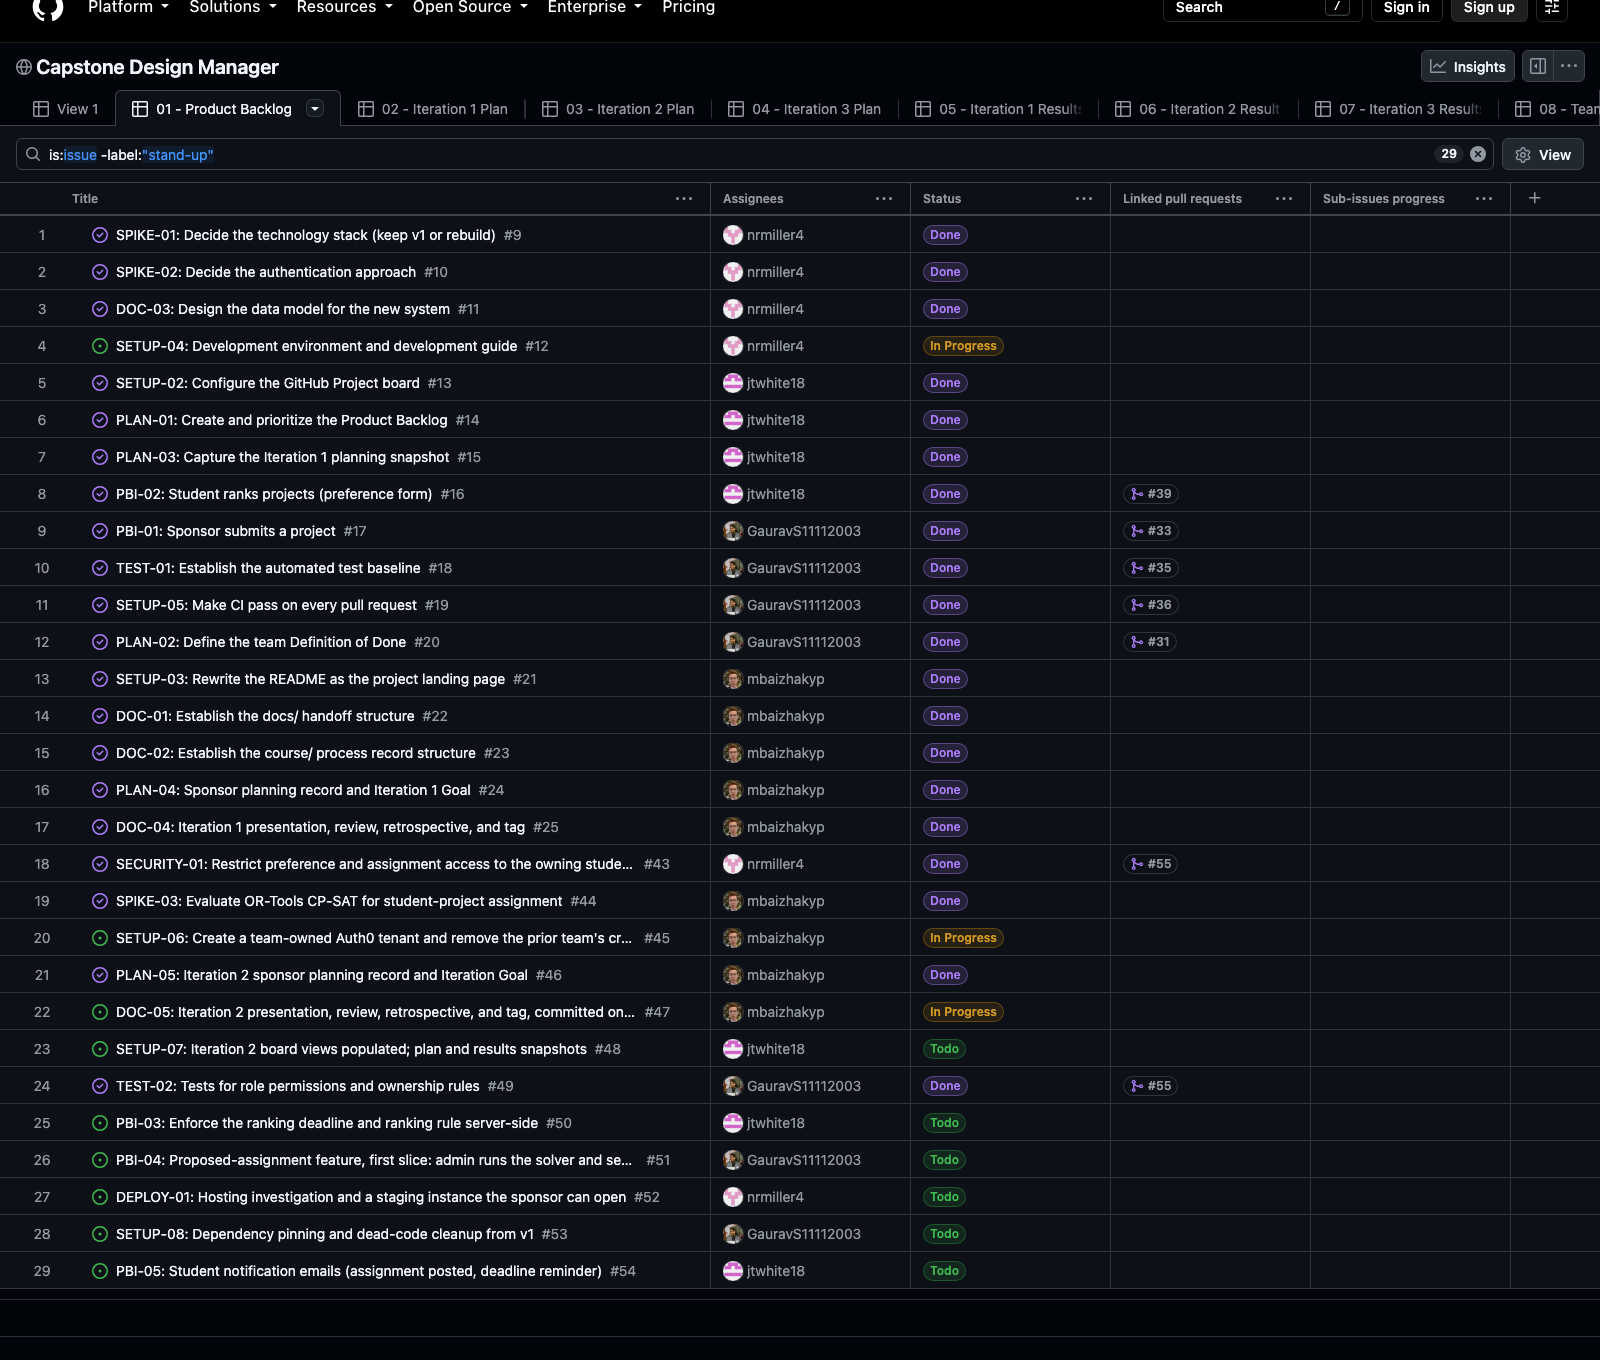
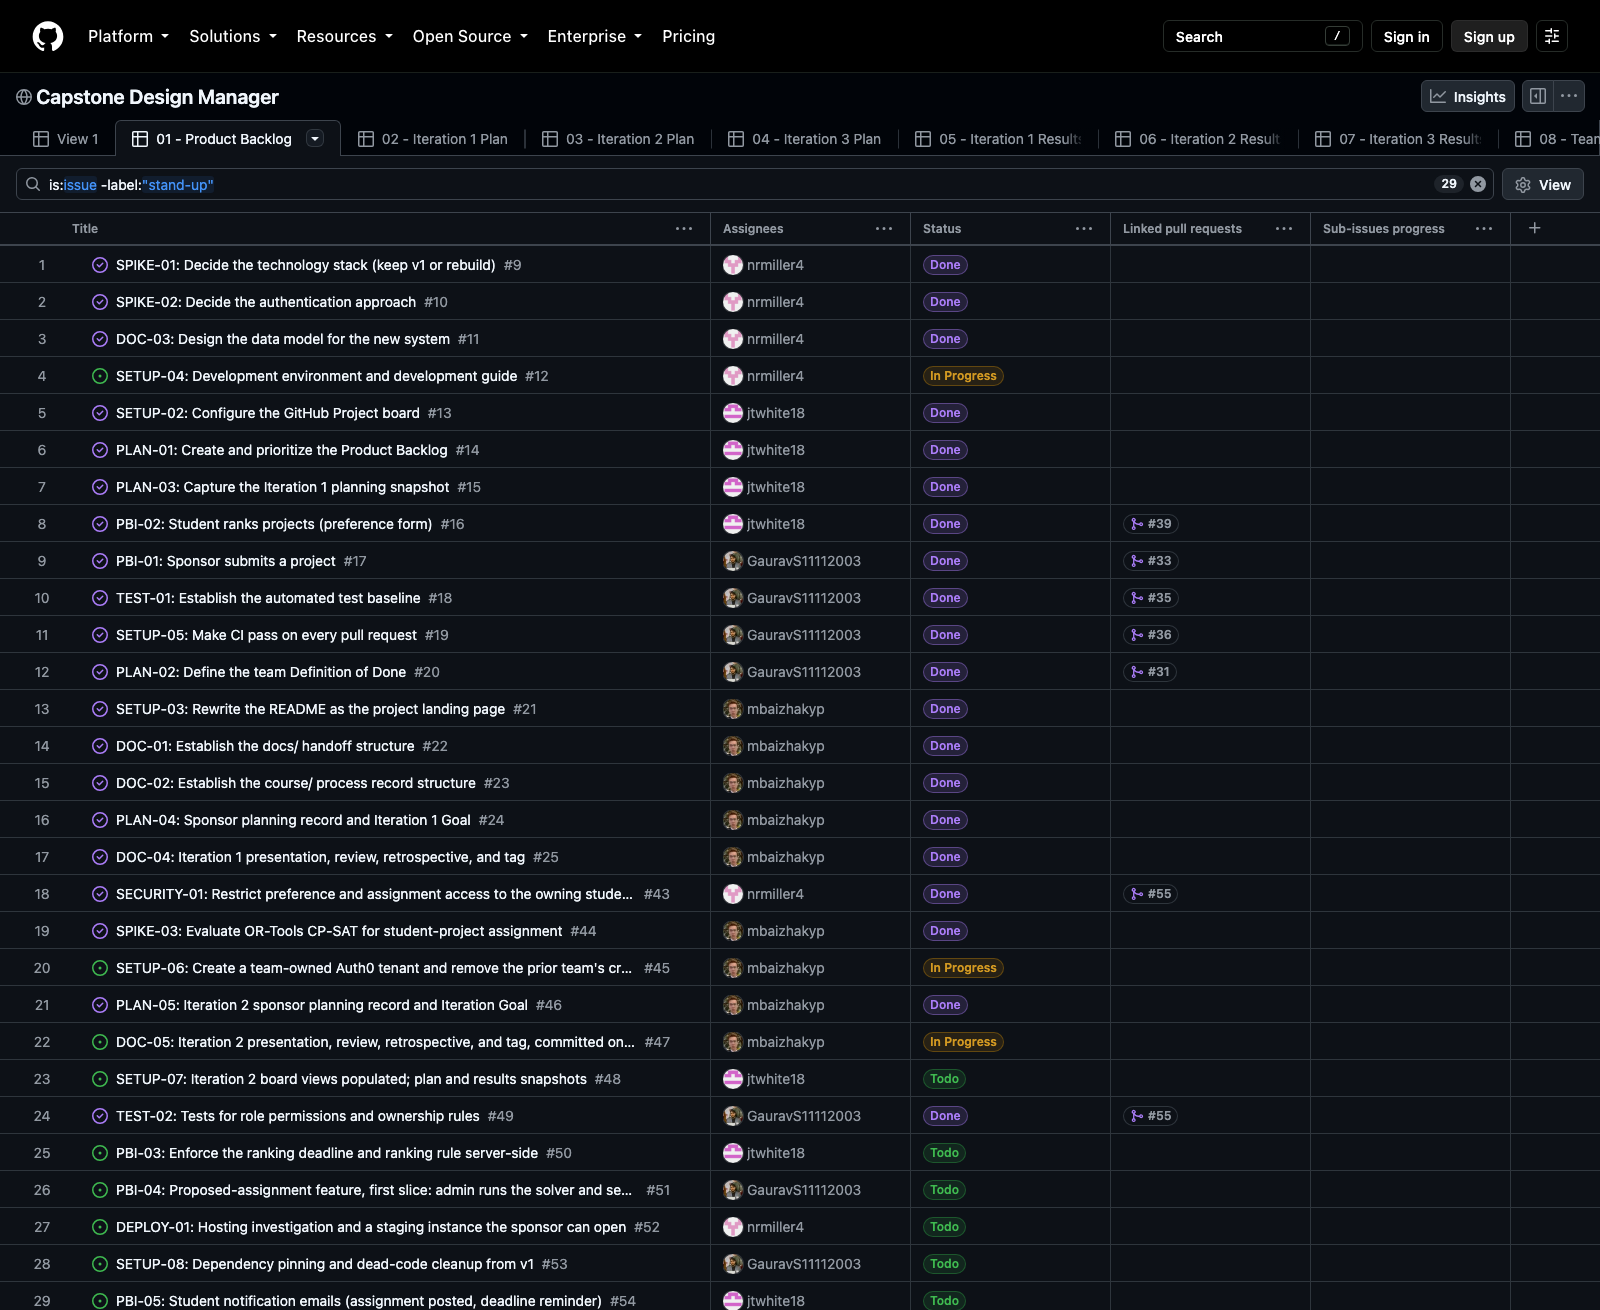
Fix Iteration 2 snapshot crops and done count in review
The earlier crops were centered, cutting off the board header and first rows.

Claude-Session: https://claude.ai/code/session_01HrKwLk9mqZoAuqE5Tj8MSu

diff --git a/course/iterations/iteration-2/review.md b/course/iterations/iteration-2/review.md
@@ -25,7 +25,7 @@ Live board: https://github.com/users/mbaizhakyp/projects/1
 
 ## Plan vs. actual
 
-9 Issues planned (7 new, 2 carried from Iteration 1). 6 done, 3 open. Nothing was removed from the plan.
+9 Issues planned (7 new, 2 carried from Iteration 1). 5 done, 4 open (one of them, #47, closes when the tag is pushed). Nothing was removed from the plan.
 
 | # | Owner | Item | Result | Evidence |
 |---|---|---|---|---|
